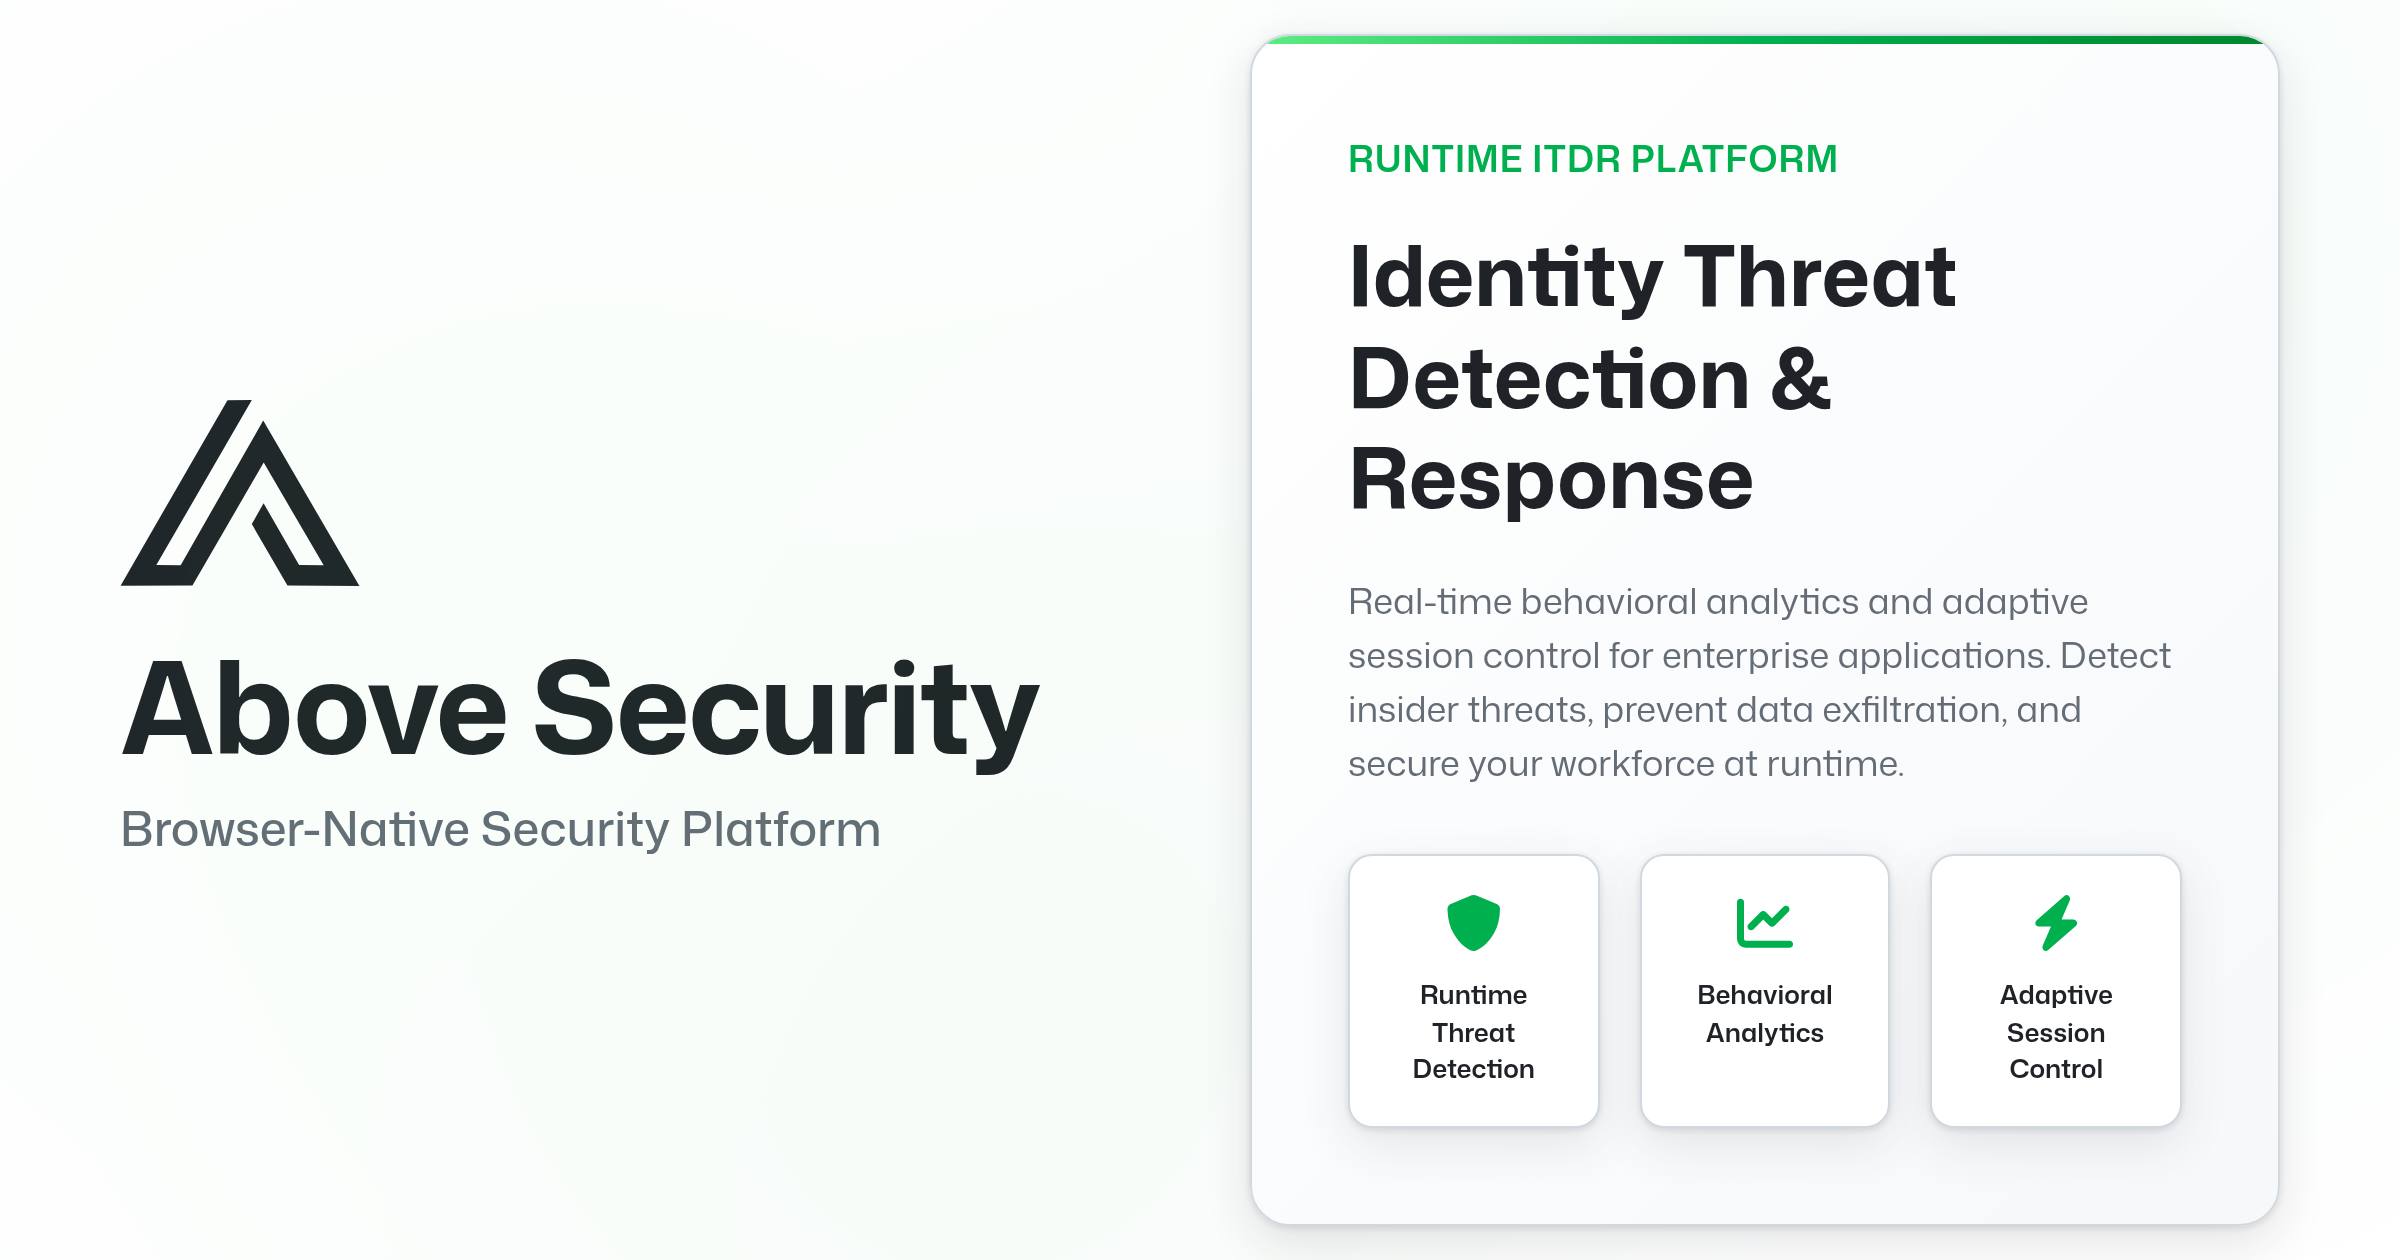
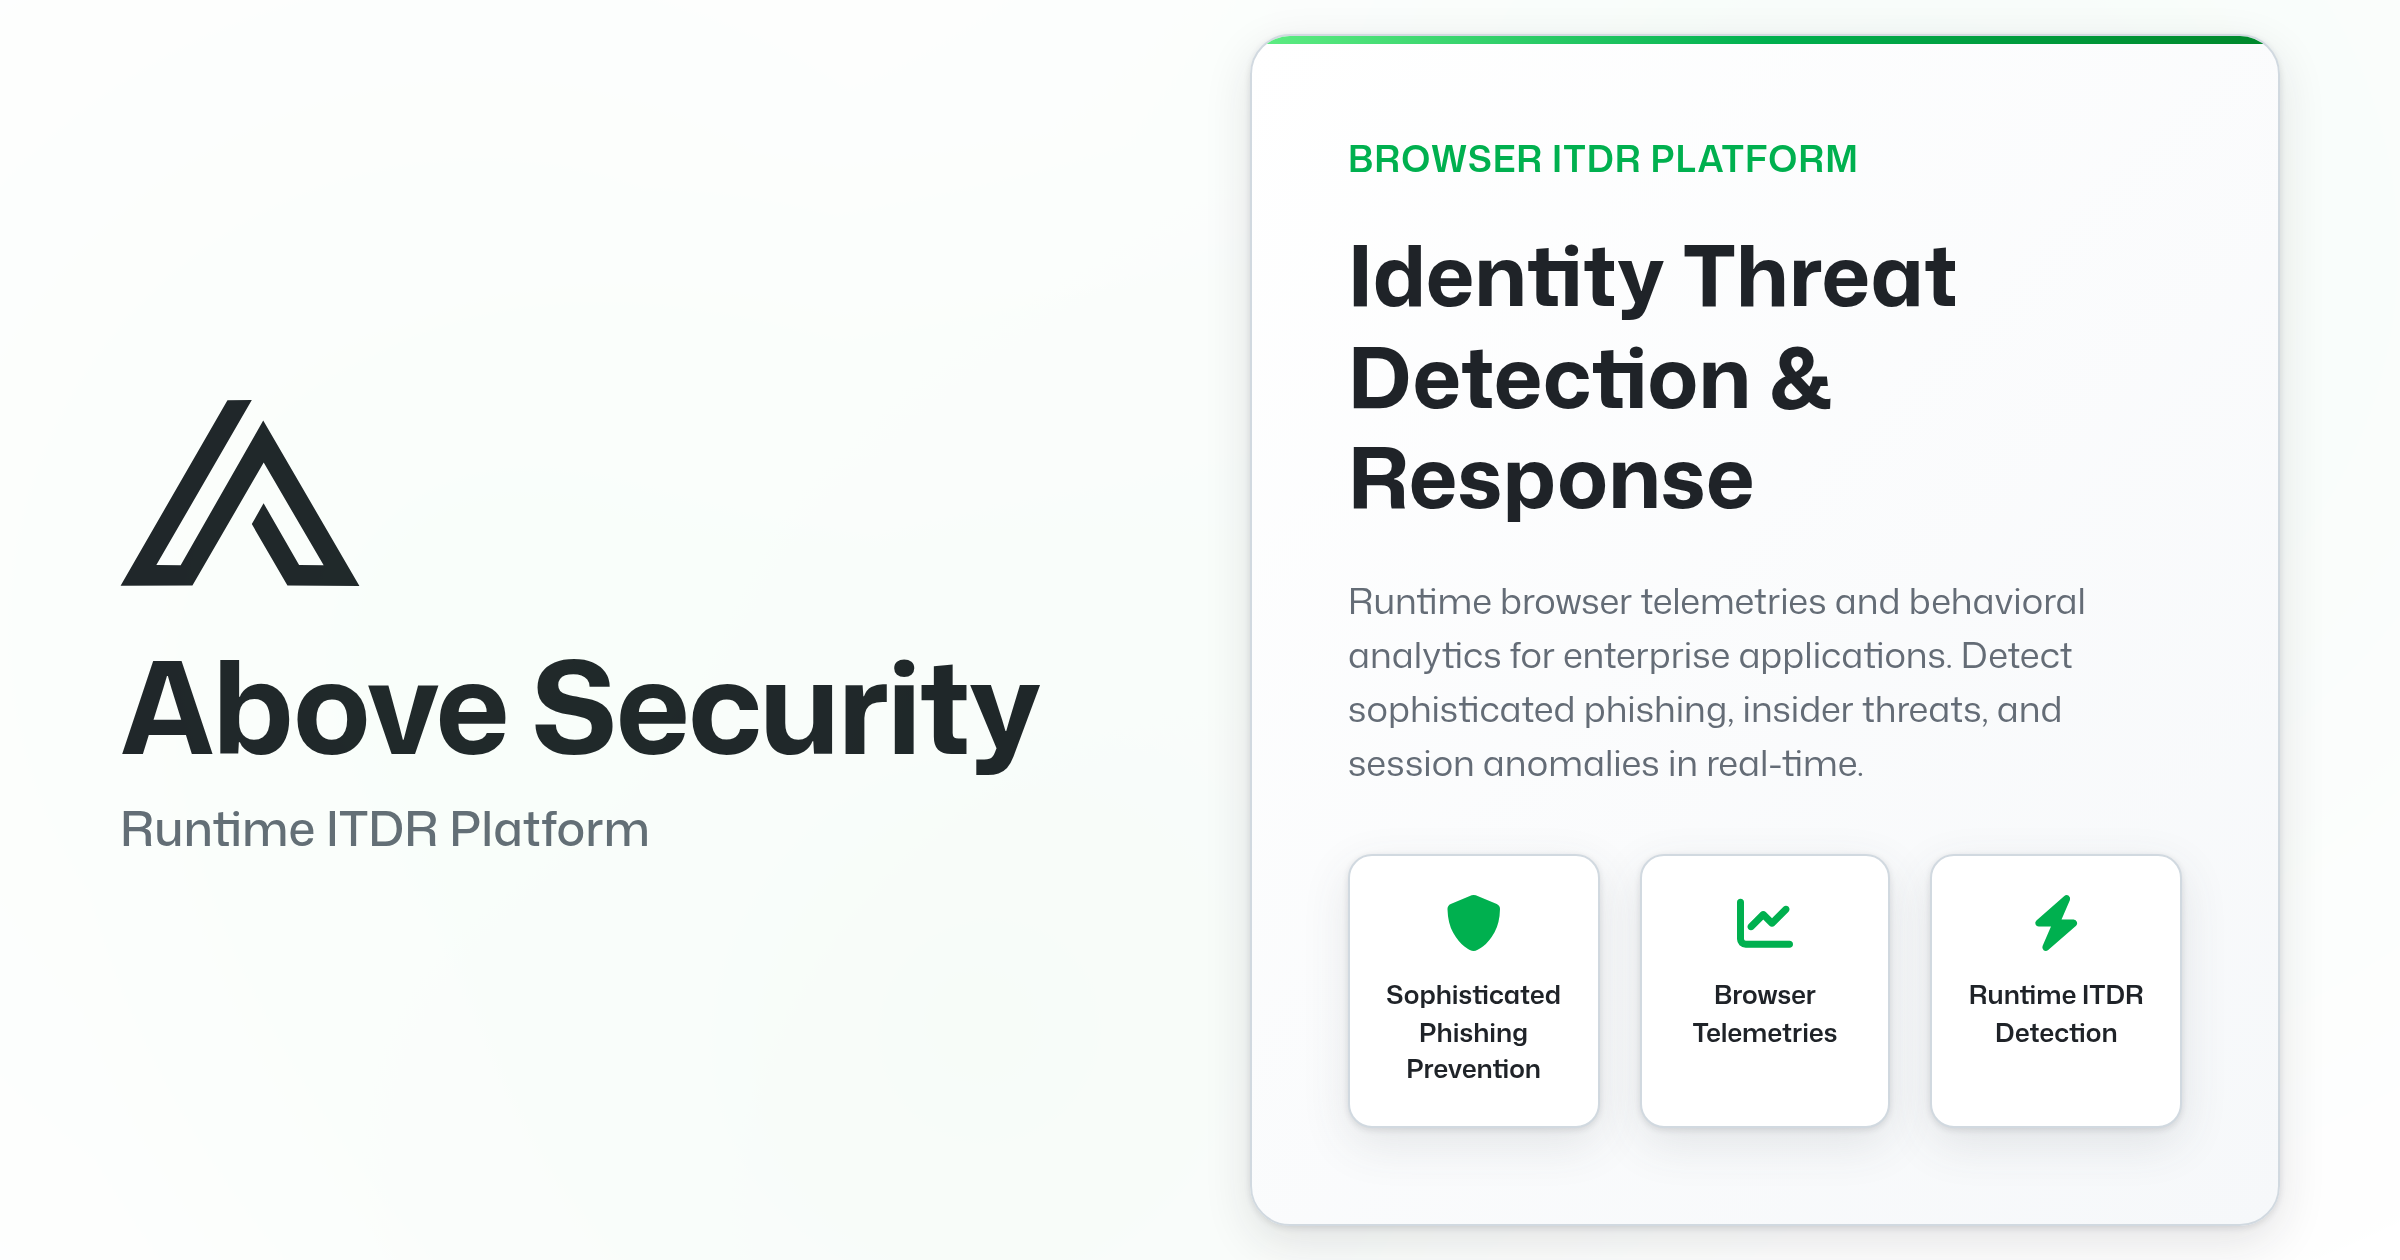
fix: Update descriptions to remove SaaS references and add sophisticated phishing
🔧 Meta Tags & Descriptions Updated:
- Removed all 'SaaS applications' references
- Changed to 'enterprise applications' throughout
- Added 'sophisticated phishing' to key descriptions
- Enhanced with 'browser telemetries' terminology
- Updated focus to 'Browser ITDR Platform'

📝 Specific Changes:
- HTML meta description: Now emphasizes Browser ITDR, browser telemetries, sophisticated phishing
- OG meta tags: Updated title to 'Browser ITDR Platform' with enhanced descriptions
- Twitter meta tags: Added sophisticated phishing and browser telemetries focus
- JSON-LD structured data: Enhanced with browser telemetries and phishing prevention
- Site manifest: Updated name and description for Browser ITDR platform

🖼 OG Image Template Enhanced:
- Tagline corrected to 'Runtime ITDR Platform'
- Subtitle updated to 'Browser ITDR Platform'
- Description includes 'runtime browser telemetries' and 'sophisticated phishing'
- Feature cards updated:
  * Sophisticated Phishing Prevention
  * Browser Telemetries
  * Runtime ITDR Detection

🎯 Keywords Updated:
- Browser ITDR, Runtime ITDR, Identity Threat Detection
- Browser Telemetries, Sophisticated Phishing
- Removed generic SaaS Security references

✅ Result: All descriptions now accurately reflect Above Security's focus on browser-based identity threat detection and sophisticated phishing prevention using runtime telemetries.

diff --git a/index.html b/index.html
@@ -4,19 +4,19 @@
     <!-- Basic Meta Tags -->
     <meta charset="UTF-8" />
     <meta name="viewport" content="width=device-width, initial-scale=1.0" />
-    <meta name="description" content="Above Security's Runtime ITDR platform delivers browser-native threat detection for SaaS applications. Real-time insider threat detection, behavioral analytics, and zero-trust session control." />
-    <meta name="keywords" content="ITDR, Identity Threat Detection, Runtime Security, Browser Security, SaaS Security, Insider Threat, Zero Trust, Above Security" />
+    <meta name="description" content="Above Security's Browser ITDR platform delivers runtime identity threat detection using browser telemetries. Detect sophisticated phishing, insider threats, and session hijacking in real-time." />
+    <meta name="keywords" content="Browser ITDR, Runtime ITDR, Identity Threat Detection, Browser Telemetries, Sophisticated Phishing, Runtime Security, Browser Security, Insider Threat, Zero Trust, Above Security" />
     <meta name="author" content="Above Security" />
     <meta name="robots" content="index, follow" />
     
     <!-- Title -->
-    <title>Above Security — Runtime Identity Threat Detection & Response Platform</title>
+    <title>Above Security — Browser ITDR Platform | Sophisticated Phishing Detection</title>
     
     <!-- Open Graph / Facebook -->
     <meta property="og:type" content="website" />
     <meta property="og:url" content="https://above-security.github.io/" />
-    <meta property="og:title" content="Above Security — Runtime ITDR Platform" />
-    <meta property="og:description" content="Browser-native identity threat detection for SaaS applications. Real-time behavioral analytics, insider threat detection, and adaptive session control." />
+    <meta property="og:title" content="Above Security — Browser ITDR Platform" />
+    <meta property="og:description" content="Runtime identity threat detection using browser telemetries. Detect sophisticated phishing, insider threats, and behavioral anomalies in real-time." />
     <meta property="og:image" content="https://above-security.github.io/og-image.png" />
     <meta property="og:image:width" content="1200" />
     <meta property="og:image:height" content="630" />
@@ -27,8 +27,8 @@
     <!-- Twitter -->
     <meta name="twitter:card" content="summary_large_image" />
     <meta name="twitter:url" content="https://above-security.github.io/" />
-    <meta name="twitter:title" content="Above Security — Runtime ITDR Platform" />
-    <meta name="twitter:description" content="Browser-native identity threat detection for SaaS applications. Real-time behavioral analytics and adaptive session control." />
+    <meta name="twitter:title" content="Above Security — Browser ITDR Platform" />
+    <meta name="twitter:description" content="Runtime identity threat detection using browser telemetries. Detect sophisticated phishing and insider threats in real-time." />
     <meta name="twitter:image" content="https://above-security.github.io/og-image.png" />
     <meta name="twitter:image:alt" content="Above Security Runtime ITDR Platform" />
     <meta name="twitter:creator" content="@AboveSecurity" />
@@ -68,7 +68,7 @@
       "@context": "https://schema.org",
       "@type": "Organization",
       "name": "Above Security",
-      "description": "Runtime Identity Threat Detection & Response platform for SaaS applications",
+      "description": "Browser ITDR platform using runtime telemetries for identity threat detection and sophisticated phishing prevention",
       "url": "https://above-security.github.io/",
       "logo": "https://above-security.github.io/favicon.svg",
       "sameAs": [
@@ -80,7 +80,7 @@
       },
       "foundingDate": "2024",
       "industry": "Cybersecurity",
-      "keywords": "ITDR, Identity Threat Detection, Runtime Security, Browser Security, SaaS Security",
+      "keywords": "Browser ITDR, Runtime ITDR, Identity Threat Detection, Browser Telemetries, Sophisticated Phishing",
       "address": {
         "@type": "PostalAddress",
         "addressCountry": "US"

diff --git a/public/og-template.html b/public/og-template.html
@@ -178,30 +178,30 @@
             <path d="M2011 1566L1201 173L506 1391L301 1390L1105 0L900 2L0 1563L605 1561L1205 527L1710 1392L1503 1389L1204 869L1105 1045L1405 1562L2011 1566Z"/>
         </svg>
         <h1 class="company-name">Above Security</h1>
-        <p class="tagline">Browser-Native Security Platform</p>
+        <p class="tagline">Runtime ITDR Platform</p>
     </div>
 
     <div class="content-section">
         <div class="main-card">
-            <div class="main-subtitle">Runtime ITDR Platform</div>
+            <div class="main-subtitle">Browser ITDR Platform</div>
             <h2 class="main-title">Identity Threat Detection & Response</h2>
             <p class="main-description">
-                Real-time behavioral analytics and adaptive session control for enterprise applications. 
-                Detect insider threats, prevent data exfiltration, and secure your workforce at runtime.
+                Runtime browser telemetries and behavioral analytics for enterprise applications. 
+                Detect sophisticated phishing, insider threats, and session anomalies in real-time.
             </p>
             
             <div class="key-features">
                 <div class="feature">
                     <i class="fas fa-shield-alt feature-icon"></i>
-                    <div class="feature-text">Runtime Threat<br>Detection</div>
+                    <div class="feature-text">Sophisticated Phishing<br>Prevention</div>
                 </div>
                 <div class="feature">
                     <i class="fas fa-chart-line feature-icon"></i>
-                    <div class="feature-text">Behavioral<br>Analytics</div>
+                    <div class="feature-text">Browser<br>Telemetries</div>
                 </div>
                 <div class="feature">
                     <i class="fas fa-bolt feature-icon"></i>
-                    <div class="feature-text">Adaptive Session<br>Control</div>
+                    <div class="feature-text">Runtime ITDR<br>Detection</div>
                 </div>
             </div>
         </div>
